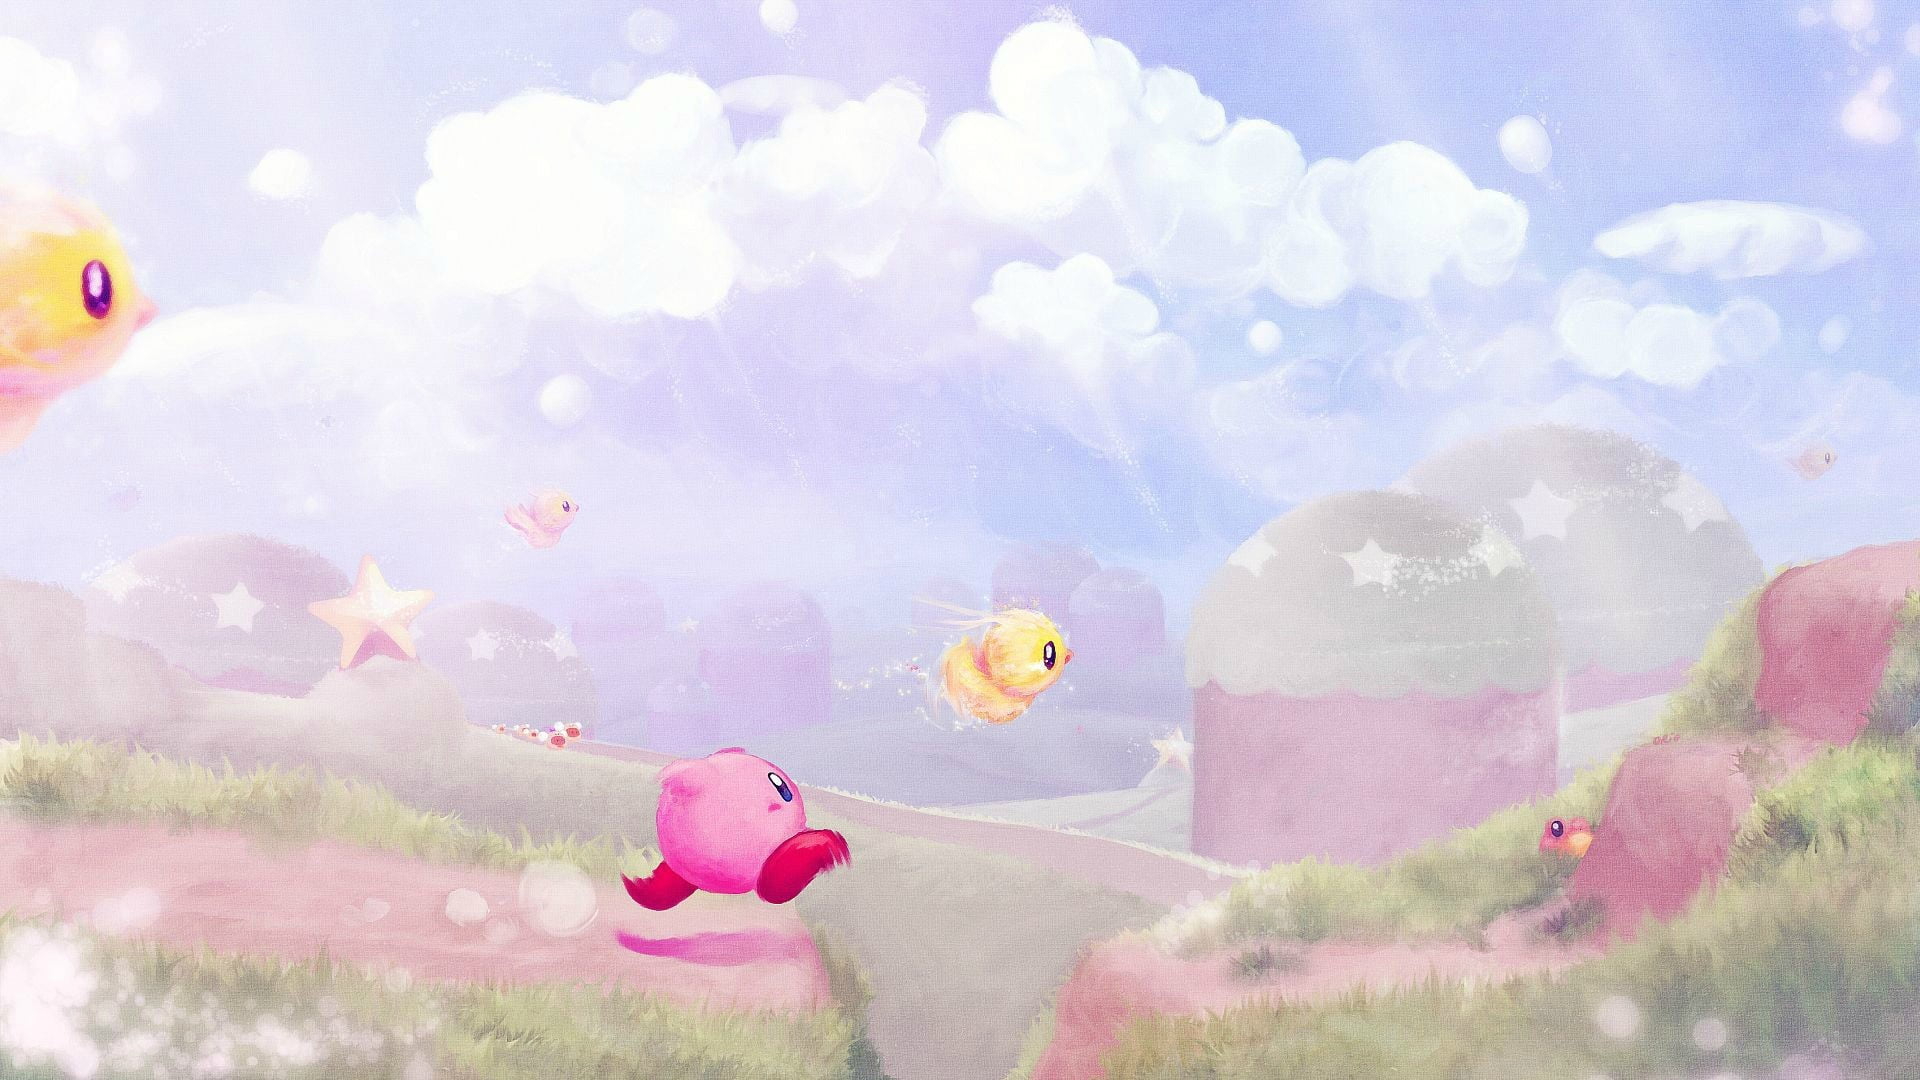
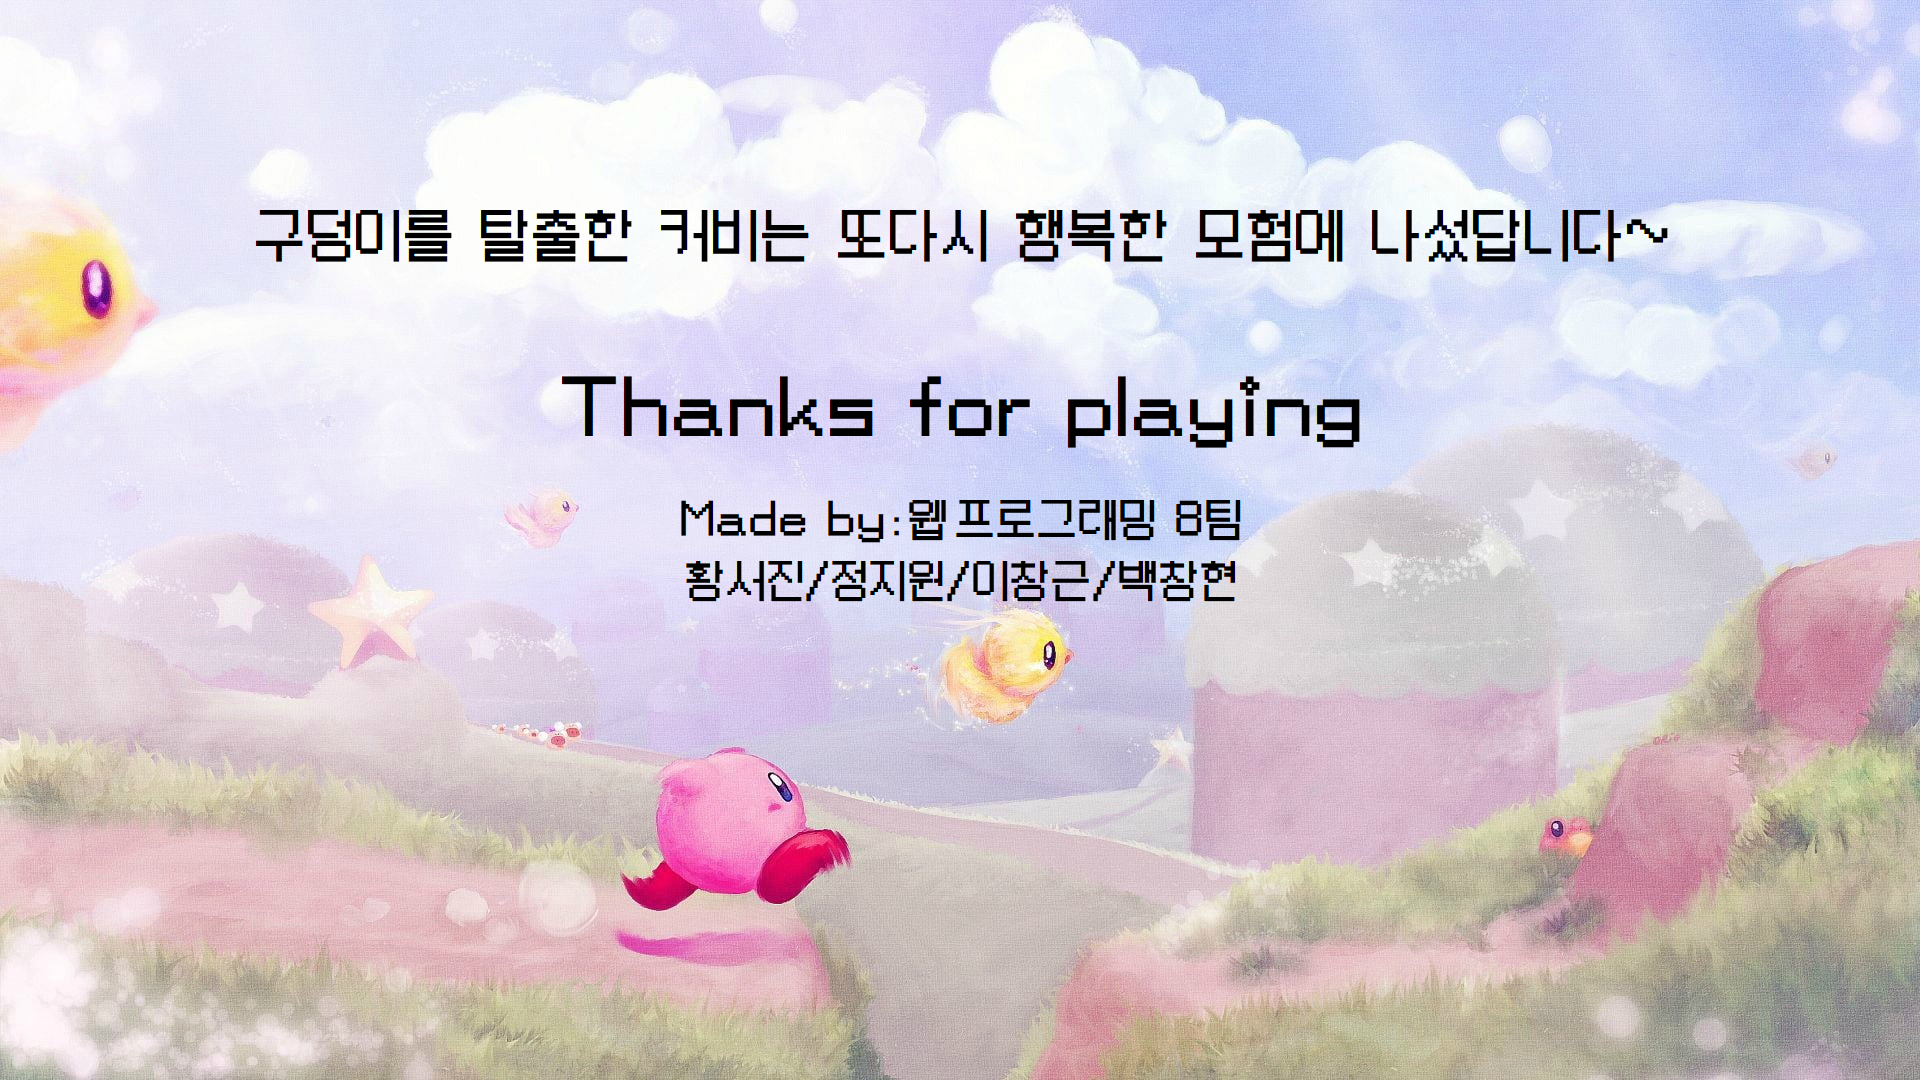
added ending screen, fixed dark function

Changed region(s): [[0.125, 0.1833, 0.875, 0.2444], [0.3438, 0.4583, 0.6562, 0.5806], [0.2812, 0.3361, 0.7188, 0.4278]]

diff --git a/index.html b/index.html
@@ -33,10 +33,10 @@
         <div id="startPage">
             <div id="title_start"></div>
             <div id="main_start">
-                <button class="btn_start" id="startButton">game start</button>
-                <button class="btn_start" id="ruleButton">game rule</button>
-                <button class="btn_start" id="setButton">game set</button>
-                <button class="btn_start" id="overButton">game over</button>
+                <button class="btn_start" id="startButton">Game Start</button>
+                <button class="btn_start" id="ruleButton">Game Rule</button>
+                <button class="btn_start" id="setButton">Settings</button>
+                <button class="btn_start" id="overButton">Quit</button>
             </div>
             <div id="rulePage" class="page">
                 <div class="ruletitle" id="rule">
@@ -67,7 +67,7 @@
         </div>
 
         <div id="opening">
-            <p>Enter를 눌러서 오프닝 스킵</p>
+            <p>Enter를 눌러서 오프닝 넘기기</p>
             <h2 id="line1">
                 모험을 하던 커비는 맛있는 케이크 생각을 하며 길을 걷고 있었다.
             </h2>
@@ -124,8 +124,8 @@
             <button id="nextButton">Next Stage</button>
         </div>
         <div id="gameAllClear">
-            <button id="goback">돌아가기</button>
             <img id="credit" src="./images/credit.png" />
+            <button id="goback">돌아가기</button>
         </div>
     </body>
 </html>

diff --git a/game/style.css b/game/style.css
@@ -156,7 +156,28 @@ button#nextButton {
     margin-top: 40px;
     margin-bottom: 40px;
     font-size: 19px;
-    font-family: "Titan One", cursive;
+    font-family: "Titan One", "PFStardust", cursive;
+    color: #37474f;
+    background: #ffe423;
+    align-items: center;
+    text-align: center;
+    justify-content: center;
+    cursor: pointer;
+    -webkit-transition: background-color 0.3s, color 0.3s;
+    transition: background-color 0.3s, color 0.3s;
+}
+
+button#goback {
+    position: relative;
+    top: -250px;
+    width: 300px;
+    border-color: #4466bf;
+    border-width: thick;
+    border-radius: 50px;
+    margin-top: 40px;
+    margin-bottom: 40px;
+    font-size: 30px;
+    font-family: "Titan One", "PFStardust", cursive;
     color: #37474f;
     background: #ffe423;
     align-items: center;
@@ -413,11 +434,7 @@ div#top #right {
     height: 300px;
     margin-top: 170px;
 }
-#resetButton {
-    margin-top: 10px;
-    width: 100px;
-    height: 40px;
-}
+
 #credit {
     width: 1280px;
     height: 800px;

diff --git a/game/scene.js b/game/scene.js
@@ -1,6 +1,8 @@
 "use strict";
 // 씬 작성 영역
 
+let dark;
+
 /** function gamePauseScene() : 일시정지 화면 */
 function gamePauseScene() {
     context.font = "20pt PFStarDust";
@@ -37,13 +39,17 @@ function gameOverScene() {
     // 게임 오버 시 배경을 서서히 어둡게 전환
     let i = 0;
     function setDark() {
-        if (i == 10) return;
+        i++;
+        if (i == 6) {
+            clearTimeout(dark);
+            return;
+        }
         context.globalAlpha = 0.1;
         context.fillStyle = "black";
         context.fillRect(0, 0, canvas.width, canvas.height);
         setTimeout(setDark, 300);
     }
-    setTimeout(setDark, 300);
+    dark = setTimeout(setDark, 300);
 
     $("#content")
         .delay(3000)
@@ -73,6 +79,7 @@ function gameOverScene() {
 }
 
 function reset() {
+    clearTimeout(dark);
     $("#gameOver").fadeOut(2000, () => {
         $("#startPage").delay(1000).fadeIn(2000);
         startPageAddListner();

diff --git a/game/startPageManager.js b/game/startPageManager.js
@@ -48,15 +48,15 @@ function textLineAni() {
         .css({ display: "none" });
 
     $("#line1, #opening1")
-        .delay(3000)
-        .fadeIn(3000)
+        .delay(2000)
+        .fadeIn(6000)
         .fadeOut(3000)
         .delay(300, () => {
             $("#line2, #opening2")
-                .fadeIn(3000)
+                .fadeIn(6000)
                 .fadeOut(3000)
                 .delay(300, () => {
-                    $("#line3, #opening3").delay(300).fadeIn(3000);
+                    $("#line3, #opening3").delay(300).fadeIn(6000);
                 });
         });
 }
